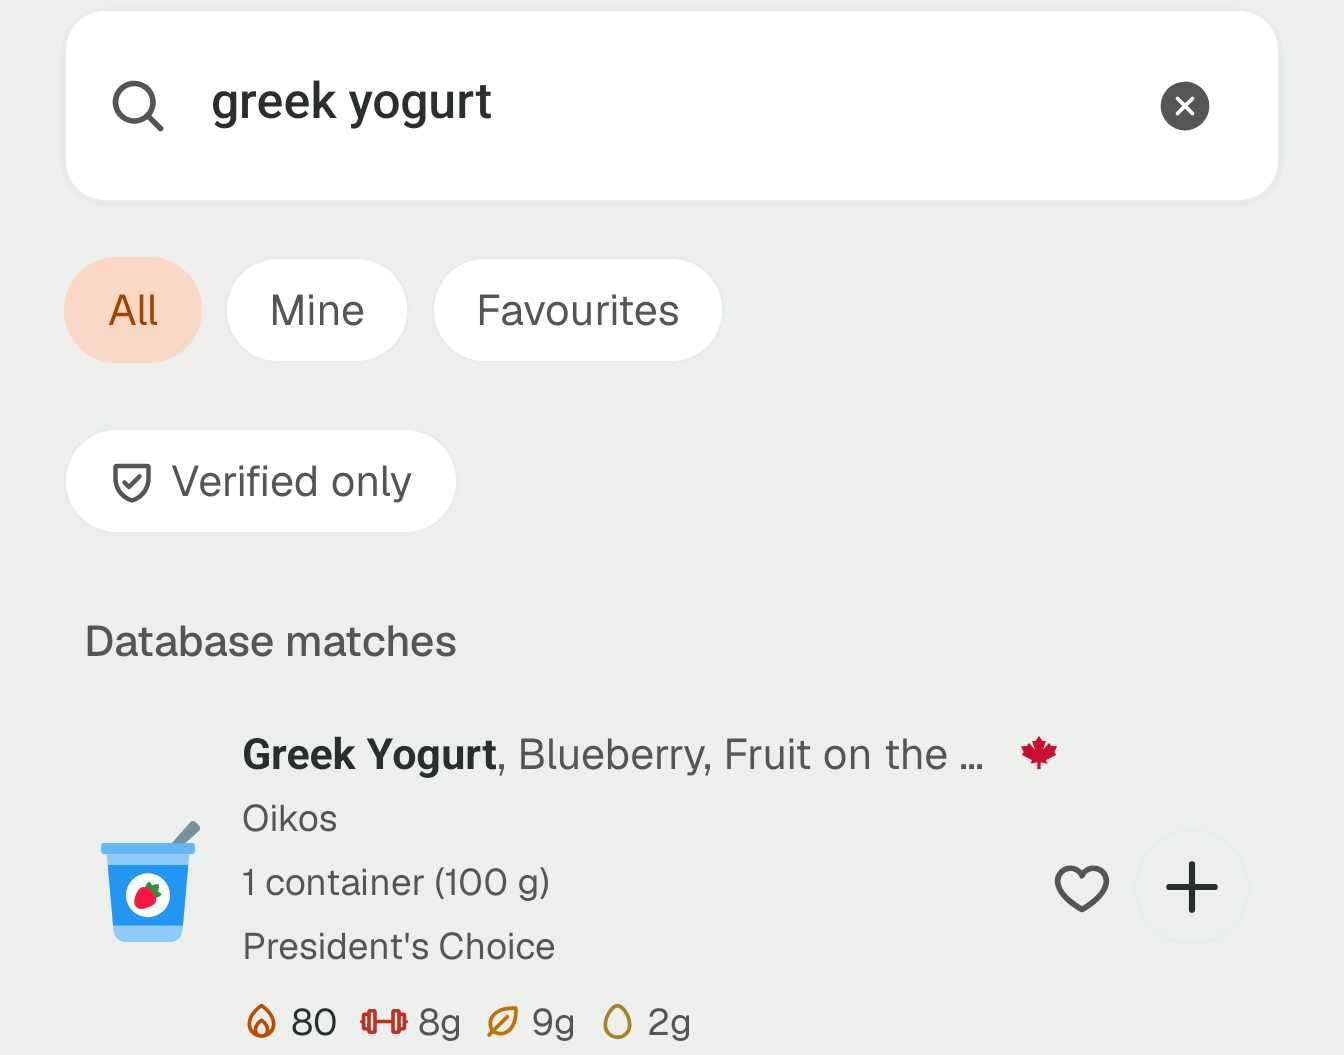
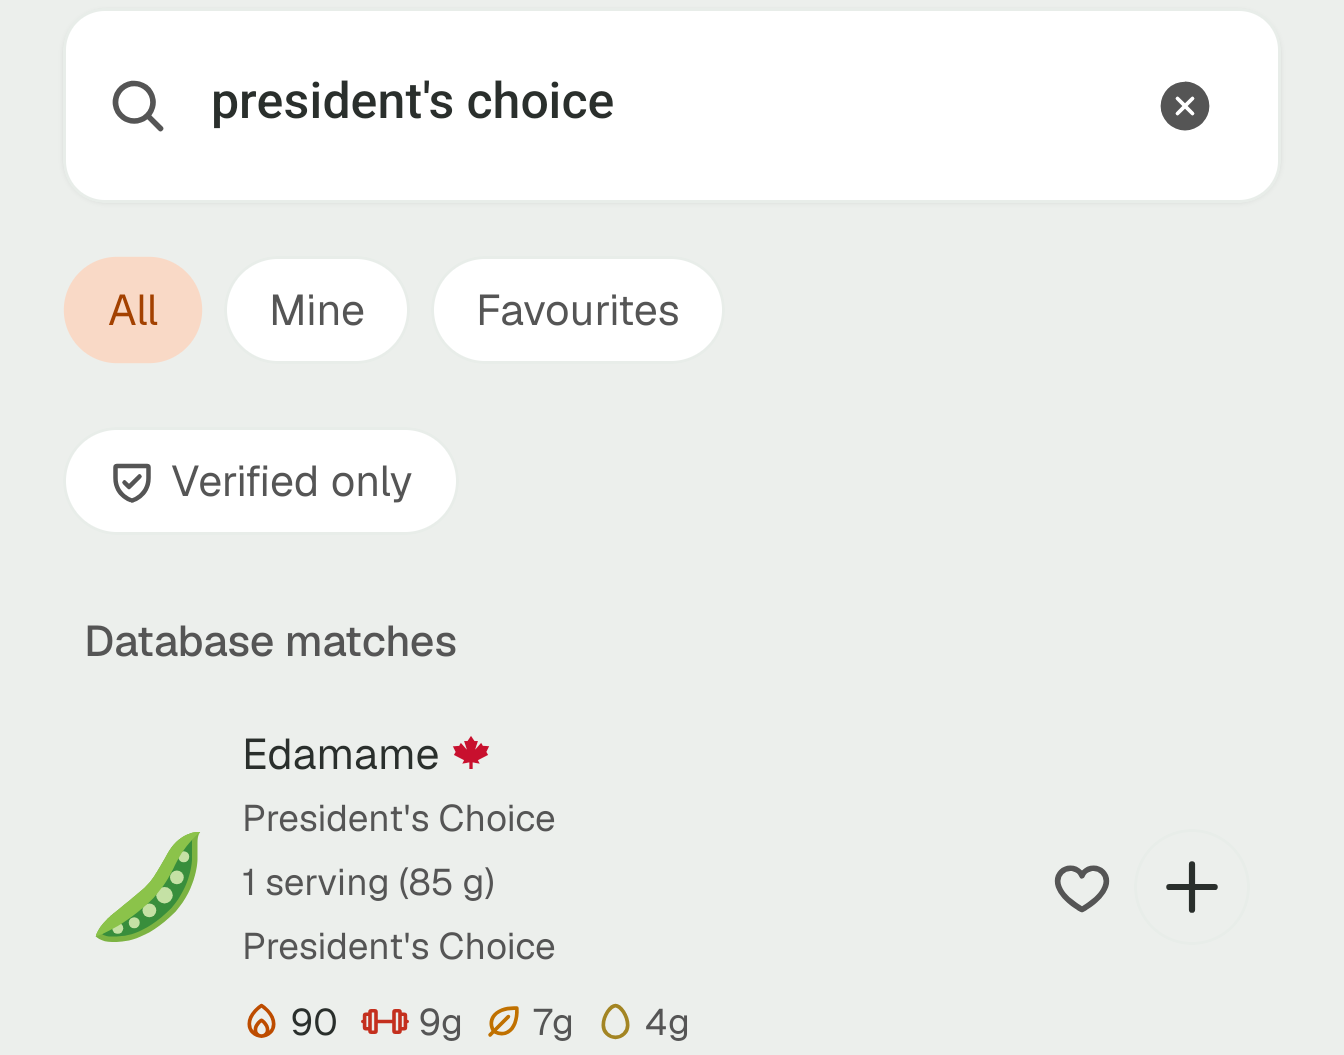
Site screenshots: President's Choice and Compliments searches
Dropping the September set took the Canadian house-brand search with it,
and the Greek yogurt search that replaced it did not say Canadian. The hero
crop and the screen row now show a President's Choice search, and the row
adds Compliments. Both were shot on the phone at full resolution, typed in
lower case the way people search, and retaken until the blinking text
cursor was off.

Every visible item's calories were checked against its protein, carbs and
fat. A Metro search was shot and left out: it surfaces Open Food Facts rows,
not Metro's own label data.

Claude-Session: https://claude.ai/code/session_01LHSZXiyTXypP8Q6eAzh4jt

diff --git a/src/content/landing/screen-rail.md b/src/content/landing/screen-rail.md
@@ -8,10 +8,15 @@ screens:
     image: ../../assets/screens/screen-diary.webp
     alt: "PocketChomp diary for Tuesday the 20th showing 2,113 of 1,806 calories, protein, carb, fat and fibre bars, iron, calcium, vitamin D and sodium, and 3 L of water"
     tier: free
-  - title: "Foods you can trust"
-    caption: "Canadian grocery products with their serving, calories and macros."
-    image: ../../assets/screens/screen-search-yogurt.webp
-    alt: "PocketChomp food search for greek yogurt listing Oikos and Kirkland Signature yogurts with a serving size, calories, protein, carbs and fat for each, and a verified-only filter"
+  - title: "Canadian house brands"
+    caption: "President's Choice, straight from the label."
+    image: ../../assets/screens/screen-search-pc.webp
+    alt: "PocketChomp food search for President's Choice listing edamame, raw shrimp, sticky rice and gouda, each marked with a maple leaf, with a serving size, calories, protein, carbs and fat for each, and a verified-only filter"
+    tier: free
+  - title: "Compliments too"
+    caption: "Sobeys' house brand, with its own servings."
+    image: ../../assets/screens/screen-search-compliments.webp
+    alt: "PocketChomp food search for Compliments listing canola oil, carrots, spring water and sliced bologna, each marked with a maple leaf, with a serving size, calories, protein, carbs and fat for each"
     tier: free
   - title: "Type what you ate"
     caption: "Describe a meal in plain words and PocketChomp finds the foods."
